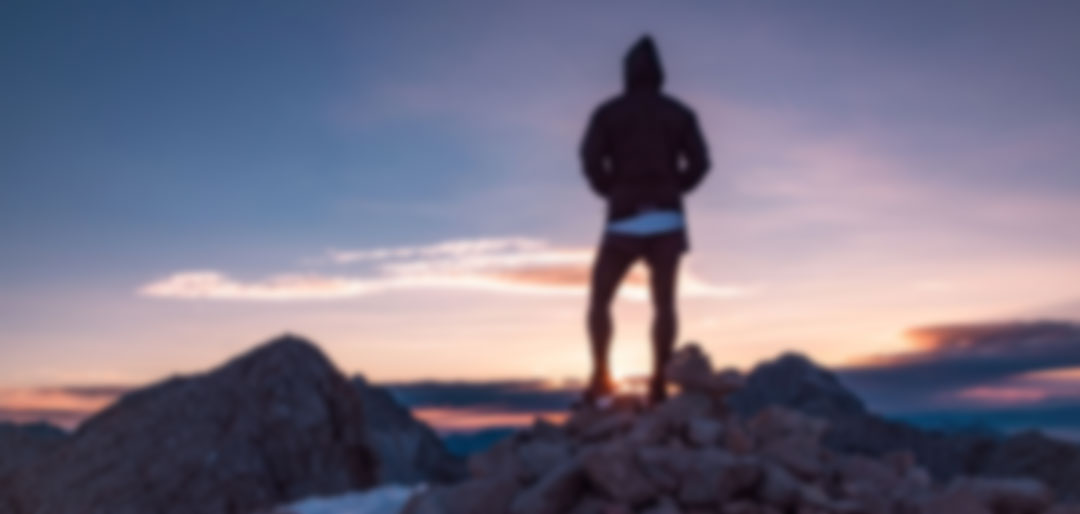
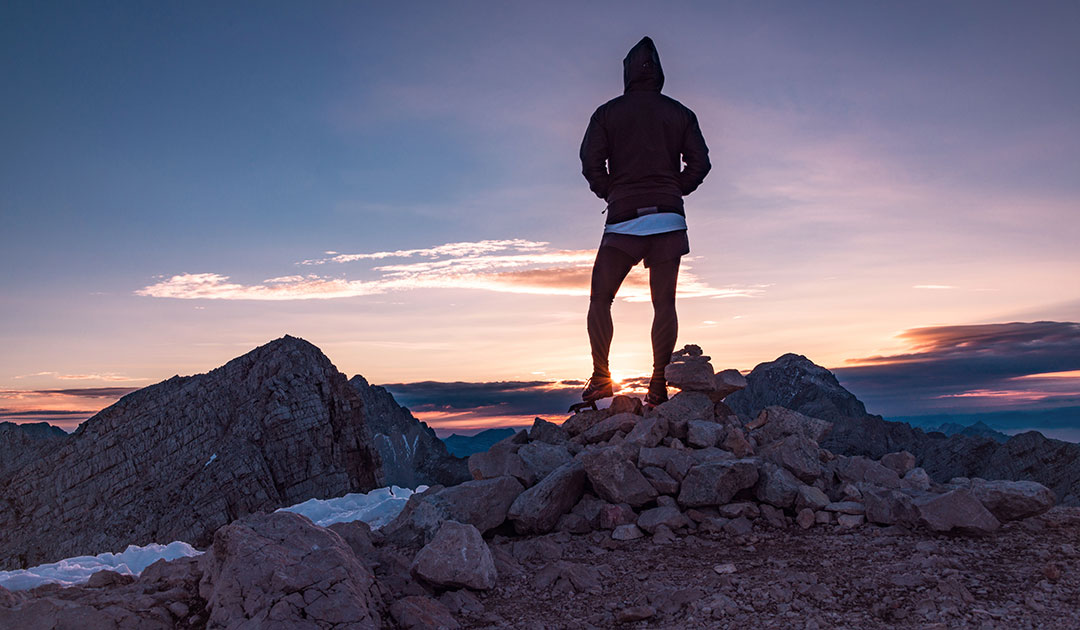
feat(css): add transition to buttons

diff --git a/index.html b/index.html
@@ -21,7 +21,7 @@ layout: default
     <div class="fundraisers">
       <h3>FUNDRAISERS</h3>
         <p>Come along with the Project Athena Racing Team on one of our adventures and race alongside us on behalf of the Project Athena Foundation! Our next events will be the Grand Canyon Trek, the San Diego Harbor to Harbor Trek and the Florida Keys.</p>
-      <button class="learn-more" type="button">LEARN MORE</button>
+      <a href="{{site.baseurl}}/involved.html"><button class="learn-more" type="button">LEARN MORE</button></a>
     </div>
   </div>
   
@@ -29,7 +29,7 @@ layout: default
     <div class="events">
       <h3>EVENTS AND RACES</h3>
         <p>At Project Athena, we have created several epic, life affirming adventures for our Athenas, Gods, and Goddesses. All our adventures allow you to challenge yourselves in a positive, fun, non-competitive environment while in the most beautiful and awe-inspiring places on Earth!</p>
-      <button class="see-packages" type="button">SEE PACKAGES</button>
+      <a href="{{site.baseurl}}/involved.html"><button class="see-packages" type="button">SEE PACKAGES</button></a>
     </div>
   </div>
 </div>

diff --git a/_site/index.html b/_site/index.html
@@ -61,7 +61,7 @@
     <div class="fundraisers">
       <h3>FUNDRAISERS</h3>
         <p>Come along with the Project Athena Racing Team on one of our adventures and race alongside us on behalf of the Project Athena Foundation! Our next events will be the Grand Canyon Trek, the San Diego Harbor to Harbor Trek and the Florida Keys.</p>
-      <button class="learn-more" type="button">LEARN MORE</button>
+      <a href="/involved.html"><button class="learn-more" type="button">LEARN MORE</button></a>
     </div>
   </div>
   
@@ -69,7 +69,7 @@
     <div class="events">
       <h3>EVENTS AND RACES</h3>
         <p>At Project Athena, we have created several epic, life affirming adventures for our Athenas, Gods, and Goddesses. All our adventures allow you to challenge yourselves in a positive, fun, non-competitive environment while in the most beautiful and awe-inspiring places on Earth!</p>
-      <button class="see-packages" type="button">SEE PACKAGES</button>
+      <a href="/involved.html"><button class="see-packages" type="button">SEE PACKAGES</button></a>
     </div>
   </div>
 </div>

diff --git a/_site/css/style.css b/_site/css/style.css
@@ -131,7 +131,7 @@ header {
 .impact-image {
   background-image: url(images/impact-image.jpg);
   background-size: cover;
-  padding: 5em 0;
+  padding: 8.5em 0;
 }
 
 .impact-image .max-width {
@@ -322,6 +322,7 @@ footer {
 .fundraisers .learn-more:hover, .fundraisers .learn-more:active .fundraisers .learn-more:focus {
   background-color: #0DC6DC;
   color: #fff;
+  transition: all 1s ease 0s;
 }
 
 .events {
@@ -364,6 +365,7 @@ footer {
 .events .see-packages:hover, .events .see-packages:active .events .see-packages:focus {
   background-color: #23223C;
   color: #fff;
+  transition: all 1s ease 0s;
 }
 
 @media only screen and (max-width: 60em) {

diff --git a/css/style-dist.css b/css/style-dist.css
@@ -131,7 +131,7 @@ header {
 .impact-image {
   background-image: url(images/impact-image.jpg);
   background-size: cover;
-  padding: 5em 0;
+  padding: 8.5em 0;
 }
 
 .impact-image .max-width {
@@ -322,6 +322,7 @@ footer {
 .fundraisers .learn-more:hover, .fundraisers .learn-more:active .fundraisers .learn-more:focus {
   background-color: #0DC6DC;
   color: #fff;
+  transition: all 1s ease 0s;
 }
 
 .events {
@@ -364,6 +365,7 @@ footer {
 .events .see-packages:hover, .events .see-packages:active .events .see-packages:focus {
   background-color: #23223C;
   color: #fff;
+  transition: all 1s ease 0s;
 }
 
 @media only screen and (max-width: 60em) {

diff --git a/css/style.css b/css/style.css
@@ -131,7 +131,7 @@ header {
 .impact-image {
   background-image: url(images/impact-image.jpg);
   background-size: cover;
-  padding: 5em 0;
+  padding: 8.5em 0;
 }
 
 .impact-image .max-width {
@@ -322,6 +322,7 @@ footer {
 .fundraisers .learn-more:hover, .fundraisers .learn-more:active .fundraisers .learn-more:focus {
   background-color: #0DC6DC;
   color: #fff;
+  transition: all 1s ease 0s;
 }
 
 .events {
@@ -364,6 +365,7 @@ footer {
 .events .see-packages:hover, .events .see-packages:active .events .see-packages:focus {
   background-color: #23223C;
   color: #fff;
+  transition: all 1s ease 0s;
 }
 
 @media only screen and (max-width: 60em) {

diff --git a/scss/components/_main.scss b/scss/components/_main.scss
@@ -110,7 +110,7 @@ header {
 .impact-image { 
   background-image: url(images/impact-image.jpg);
   background-size: cover;
-  padding: 5em 0;
+  padding: 8.5em 0;
   .max-width{
     padding: 0 1em;
     @media only screen and (min-width: 60em){
@@ -256,6 +256,7 @@ footer {
     &:hover, &:active &:focus {
     background-color: $blue;
     color: $white;
+    transition: all 1s ease 0s;
   }
  }
 }
@@ -286,6 +287,7 @@ footer {
     &:hover, &:active &:focus {
     background-color: $navy;
     color: $white;
+    transition: all 1s ease 0s;
   }
  }
 }
